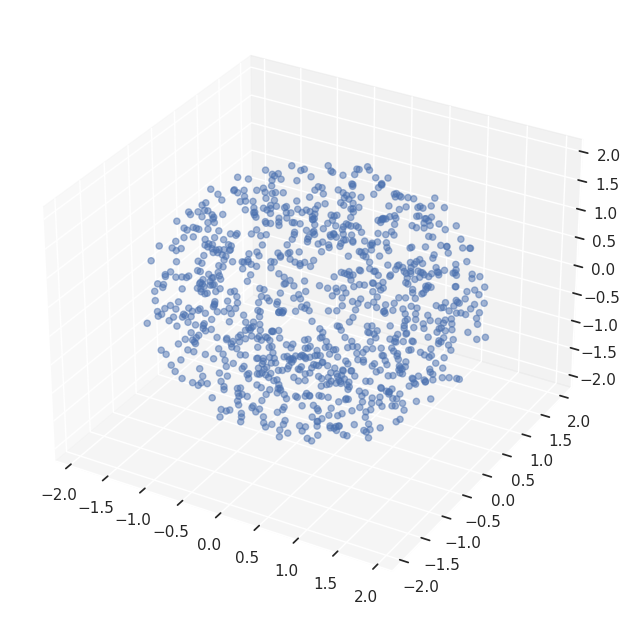
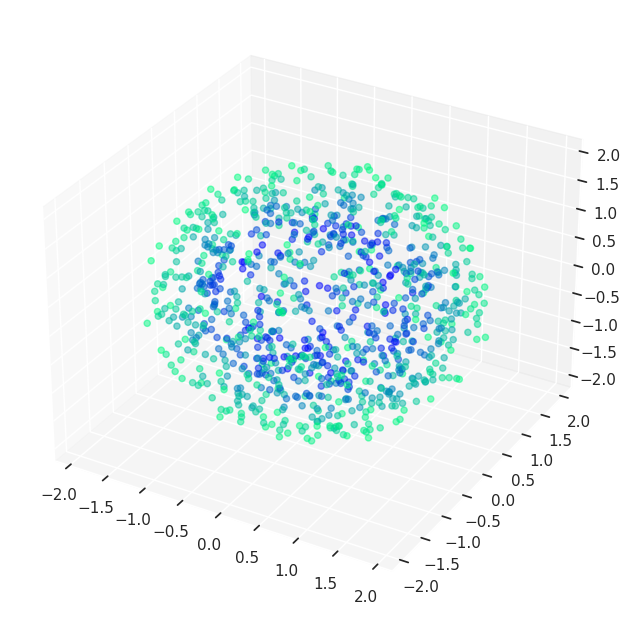
plots

Changed region(s): [[0.2413, 0.2456, 0.7841, 0.7367]]

diff --git a/src/data_plots.py b/src/data_plots.py
@@ -20,21 +20,33 @@ datas = {
     "uniform_ball_with_outliers_3d": data.generation.uniform_ball_with_ouliters(n, 3, 0.9, 1, 2, 3)
 }
 
+
+
 for name, data in datas.items():
     dim = name.split("_")[-1]
+    if name.startswith("hyperspherical_shell"):
+        print(name)
+        c = [np.linalg.norm(x-np.zeros(int(dim[0]))) for x in data]
+        cmap = "winter"
+    else:
+        c = None
+        cmap = None
+
     fig = plt.figure(figsize=(6,6))
     if dim == "2d":
-        plt.scatter(data[:,0], data[:,1], alpha=0.5)
+        plt.scatter(data[:,0], data[:,1], alpha=0.5, c=c, cmap=cmap)
         plt.gca().set_aspect("equal")
     
     if dim == "3d":
+        
         ax = Axes3D(fig, auto_add_to_figure=False)
         fig.add_axes(ax)
 
-        ax.scatter(data[:,0], data[:,1], data[:,2], alpha=0.5)
+        ax.scatter(data[:,0], data[:,1], data[:,2], alpha=0.5, c=c, cmap=cmap)
     
     if dim == "2d":
         plt.savefig(r"images/data_plots/{0}".format(name), bbox_inches='tight')
     else:
         plt.savefig(r"images/data_plots/{0}".format(name), bbox_inches='tight', transparent=True)
+
     plt.clf()
